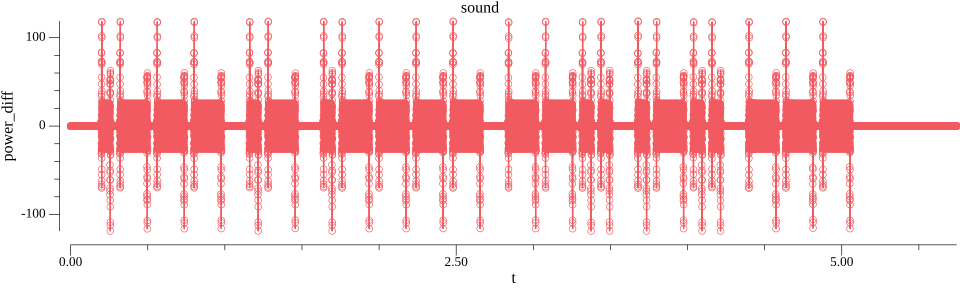
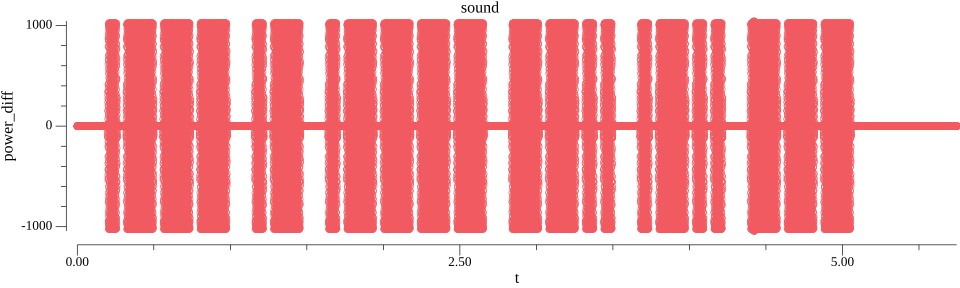
change filter

diff --git a/fft.go b/fft.go
@@ -1,10 +1,11 @@
 package main
 
 import (
+	"fmt"
 	"log"
+	"math"
 	"os"
 
-	"github.com/mjibson/go-dsp/spectral"
 	"github.com/mjibson/go-dsp/wav"
 	"gonum.org/v1/plot"
 	"gonum.org/v1/plot/plotter"
@@ -44,29 +45,32 @@ func main() {
 	for i, val := range SoundData {
 		SoundData64[i] = float64(val)
 	}
+	/*
+		var opt spectral.PwelchOptions
 
-	var opt spectral.PwelchOptions
+		opt.NFFT = 4096
+		opt.Noverlap = 1024
+		opt.Window = nil
+		opt.Pad = 4096
+		opt.Scale_off = false
 
-	opt.NFFT = 4096
-	opt.Noverlap = 1024
-	opt.Window = nil
-	opt.Pad = 4096
-	opt.Scale_off = false
+		Power, Freq := spectral.Pwelch(SoundData64, float64(rate_sound), &opt)
 
-	Power, Freq := spectral.Pwelch(SoundData64, float64(rate_sound), &opt)
-
-	peakFreq := 0.0
-	peakPower := 0.0
-	for i, val := range Freq {
-		if val > 10 && val < 3000 {
-			if Power[i] > peakPower {
-				peakPower = Power[i]
-				peakFreq = val
+		peakFreq := 0.0
+		peakPower := 0.0
+		for i, val := range Freq {
+			if val > 10 && val < 3000 {
+				if Power[i] > peakPower {
+					peakPower = Power[i]
+					peakFreq = val
+				}
 			}
 		}
-	}
+	*/
 
-	ave_num := int(rate_sound) / int(peakFreq)
+	ave_num := 5
+	cut_freq := 0.443 * float64(rate_sound) / math.Sqrt(float64(ave_num)*float64(ave_num)-1)
+	fmt.Println(cut_freq)
 	Power_ave_array := make([]float64, len_sound-ave_num)
 	Power_ave := float64(0.0)
 
@@ -106,6 +110,11 @@ func main() {
 	if err != nil {
 		panic(err)
 	}
+
+	/*
+		p.X.Min = 0.15
+		p.X.Max = 0.25
+	*/
 
 	// 描画結果を保存
 	// "5*vg.Inch" の数値を変更すれば，保存する画像のサイズを調整できます．
